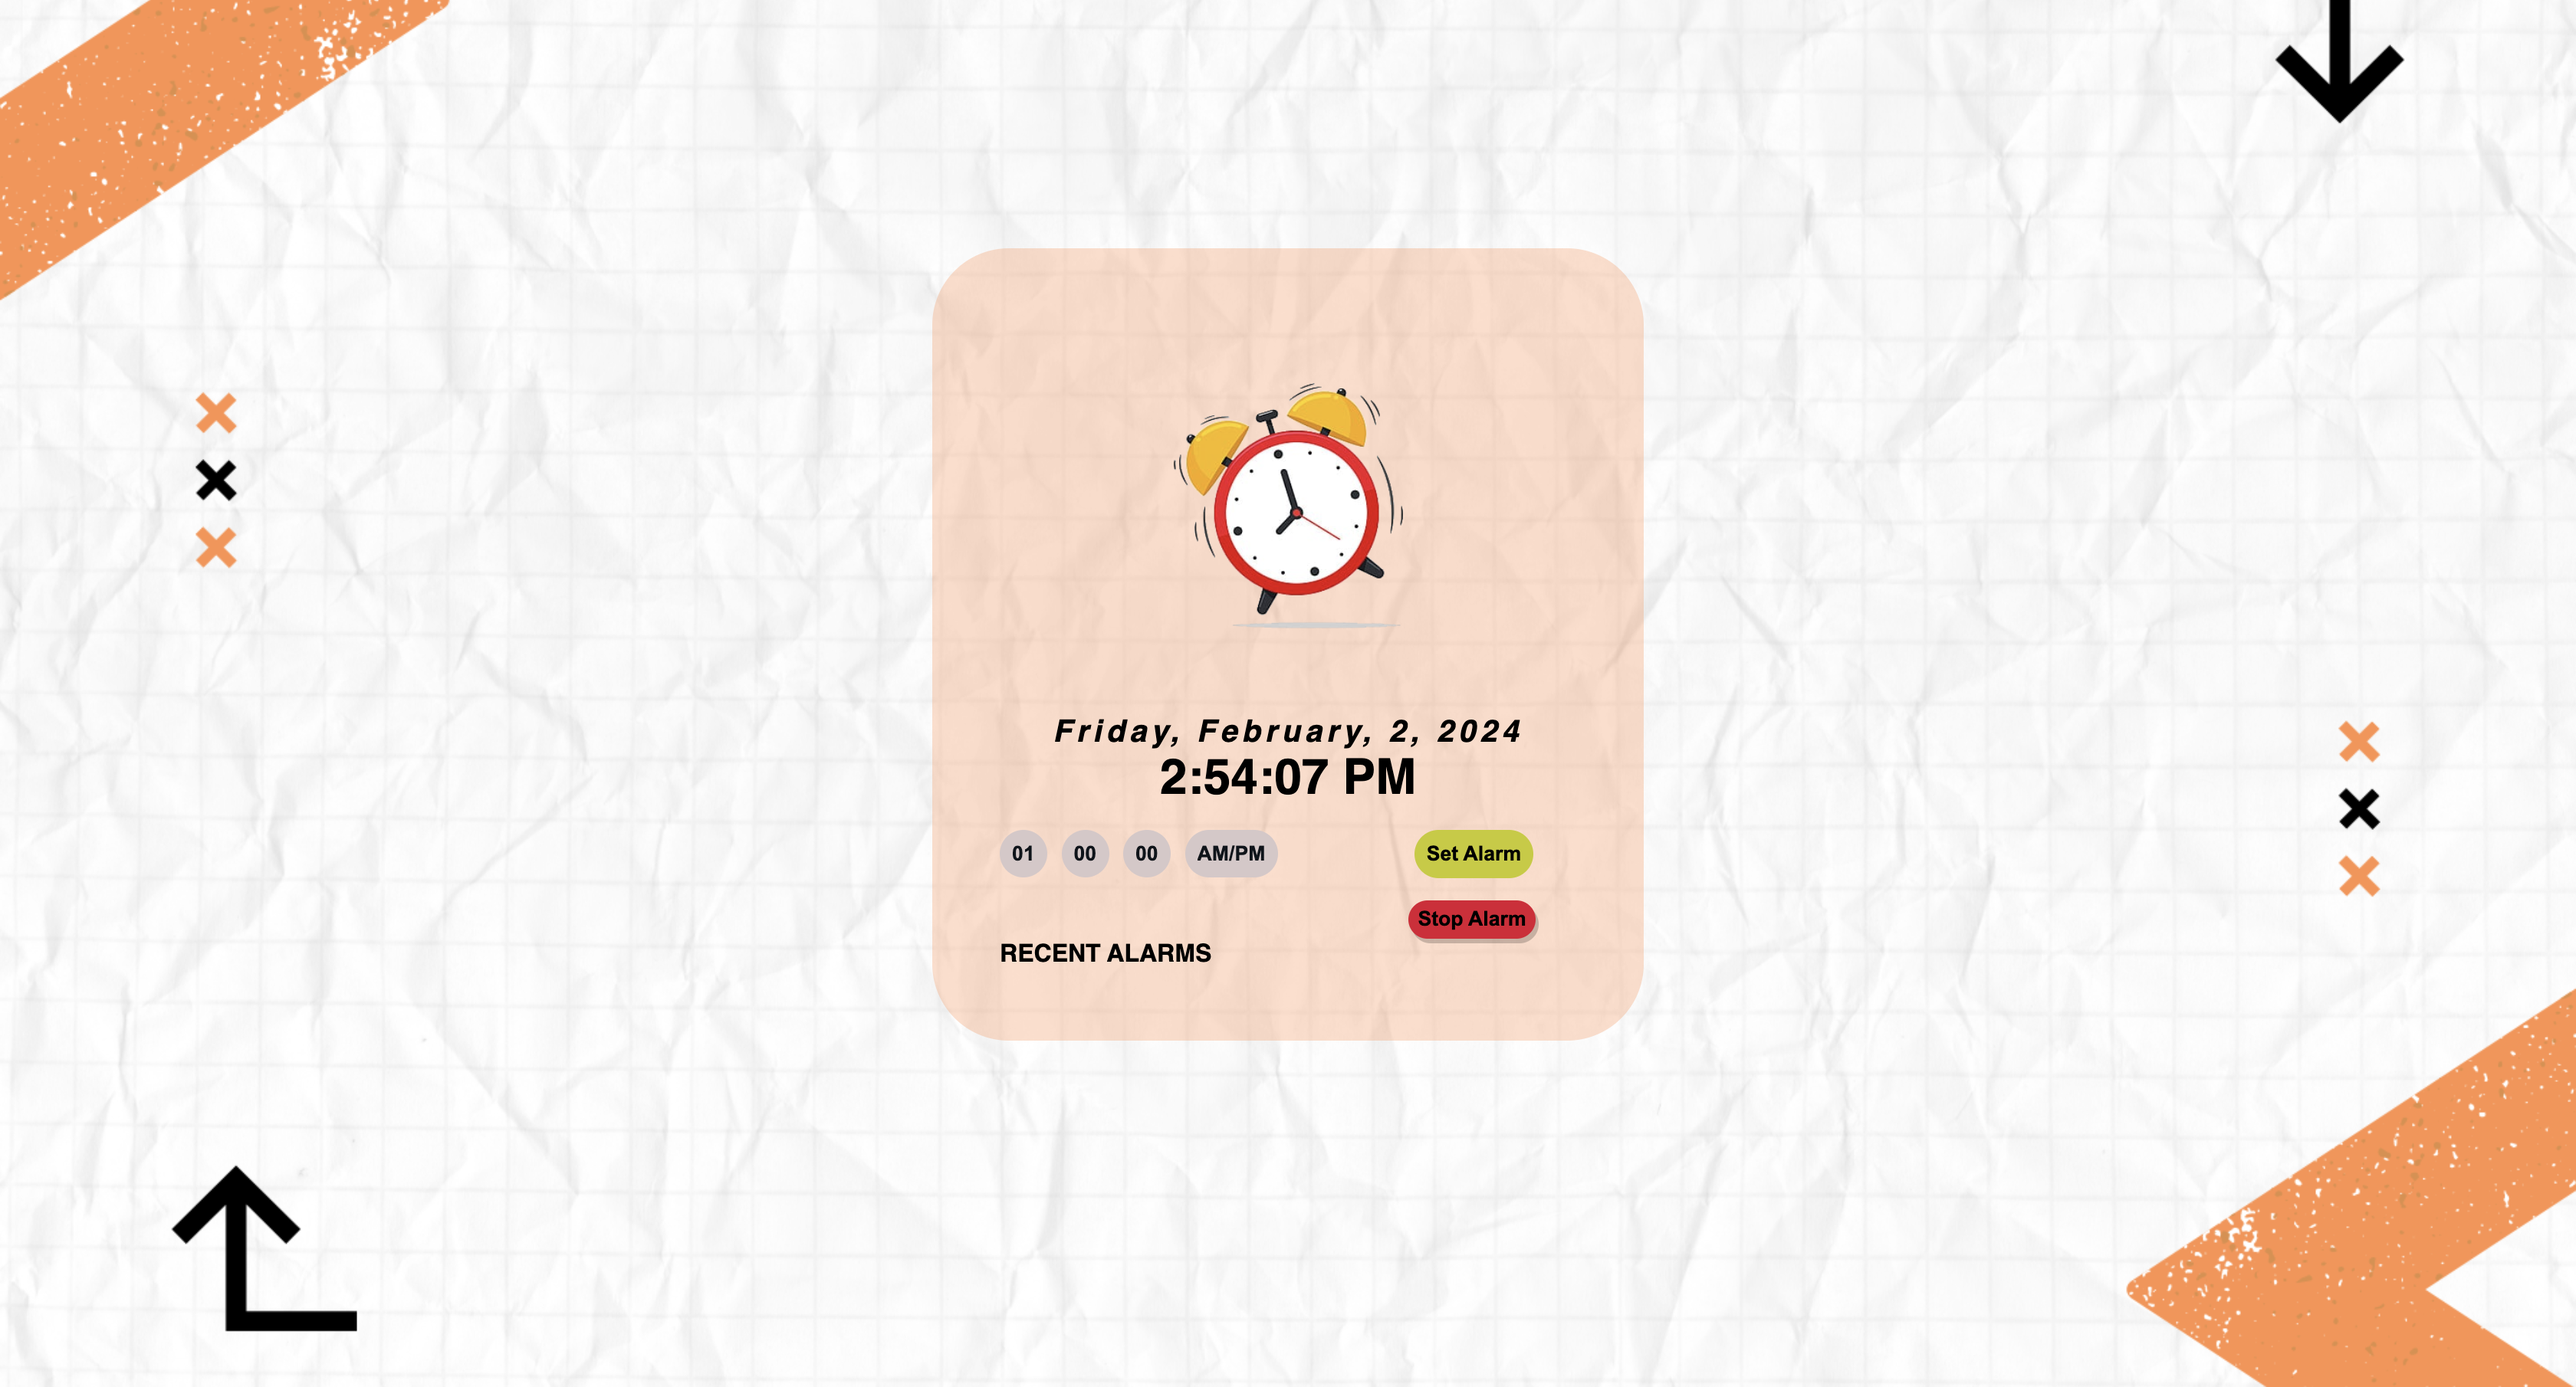
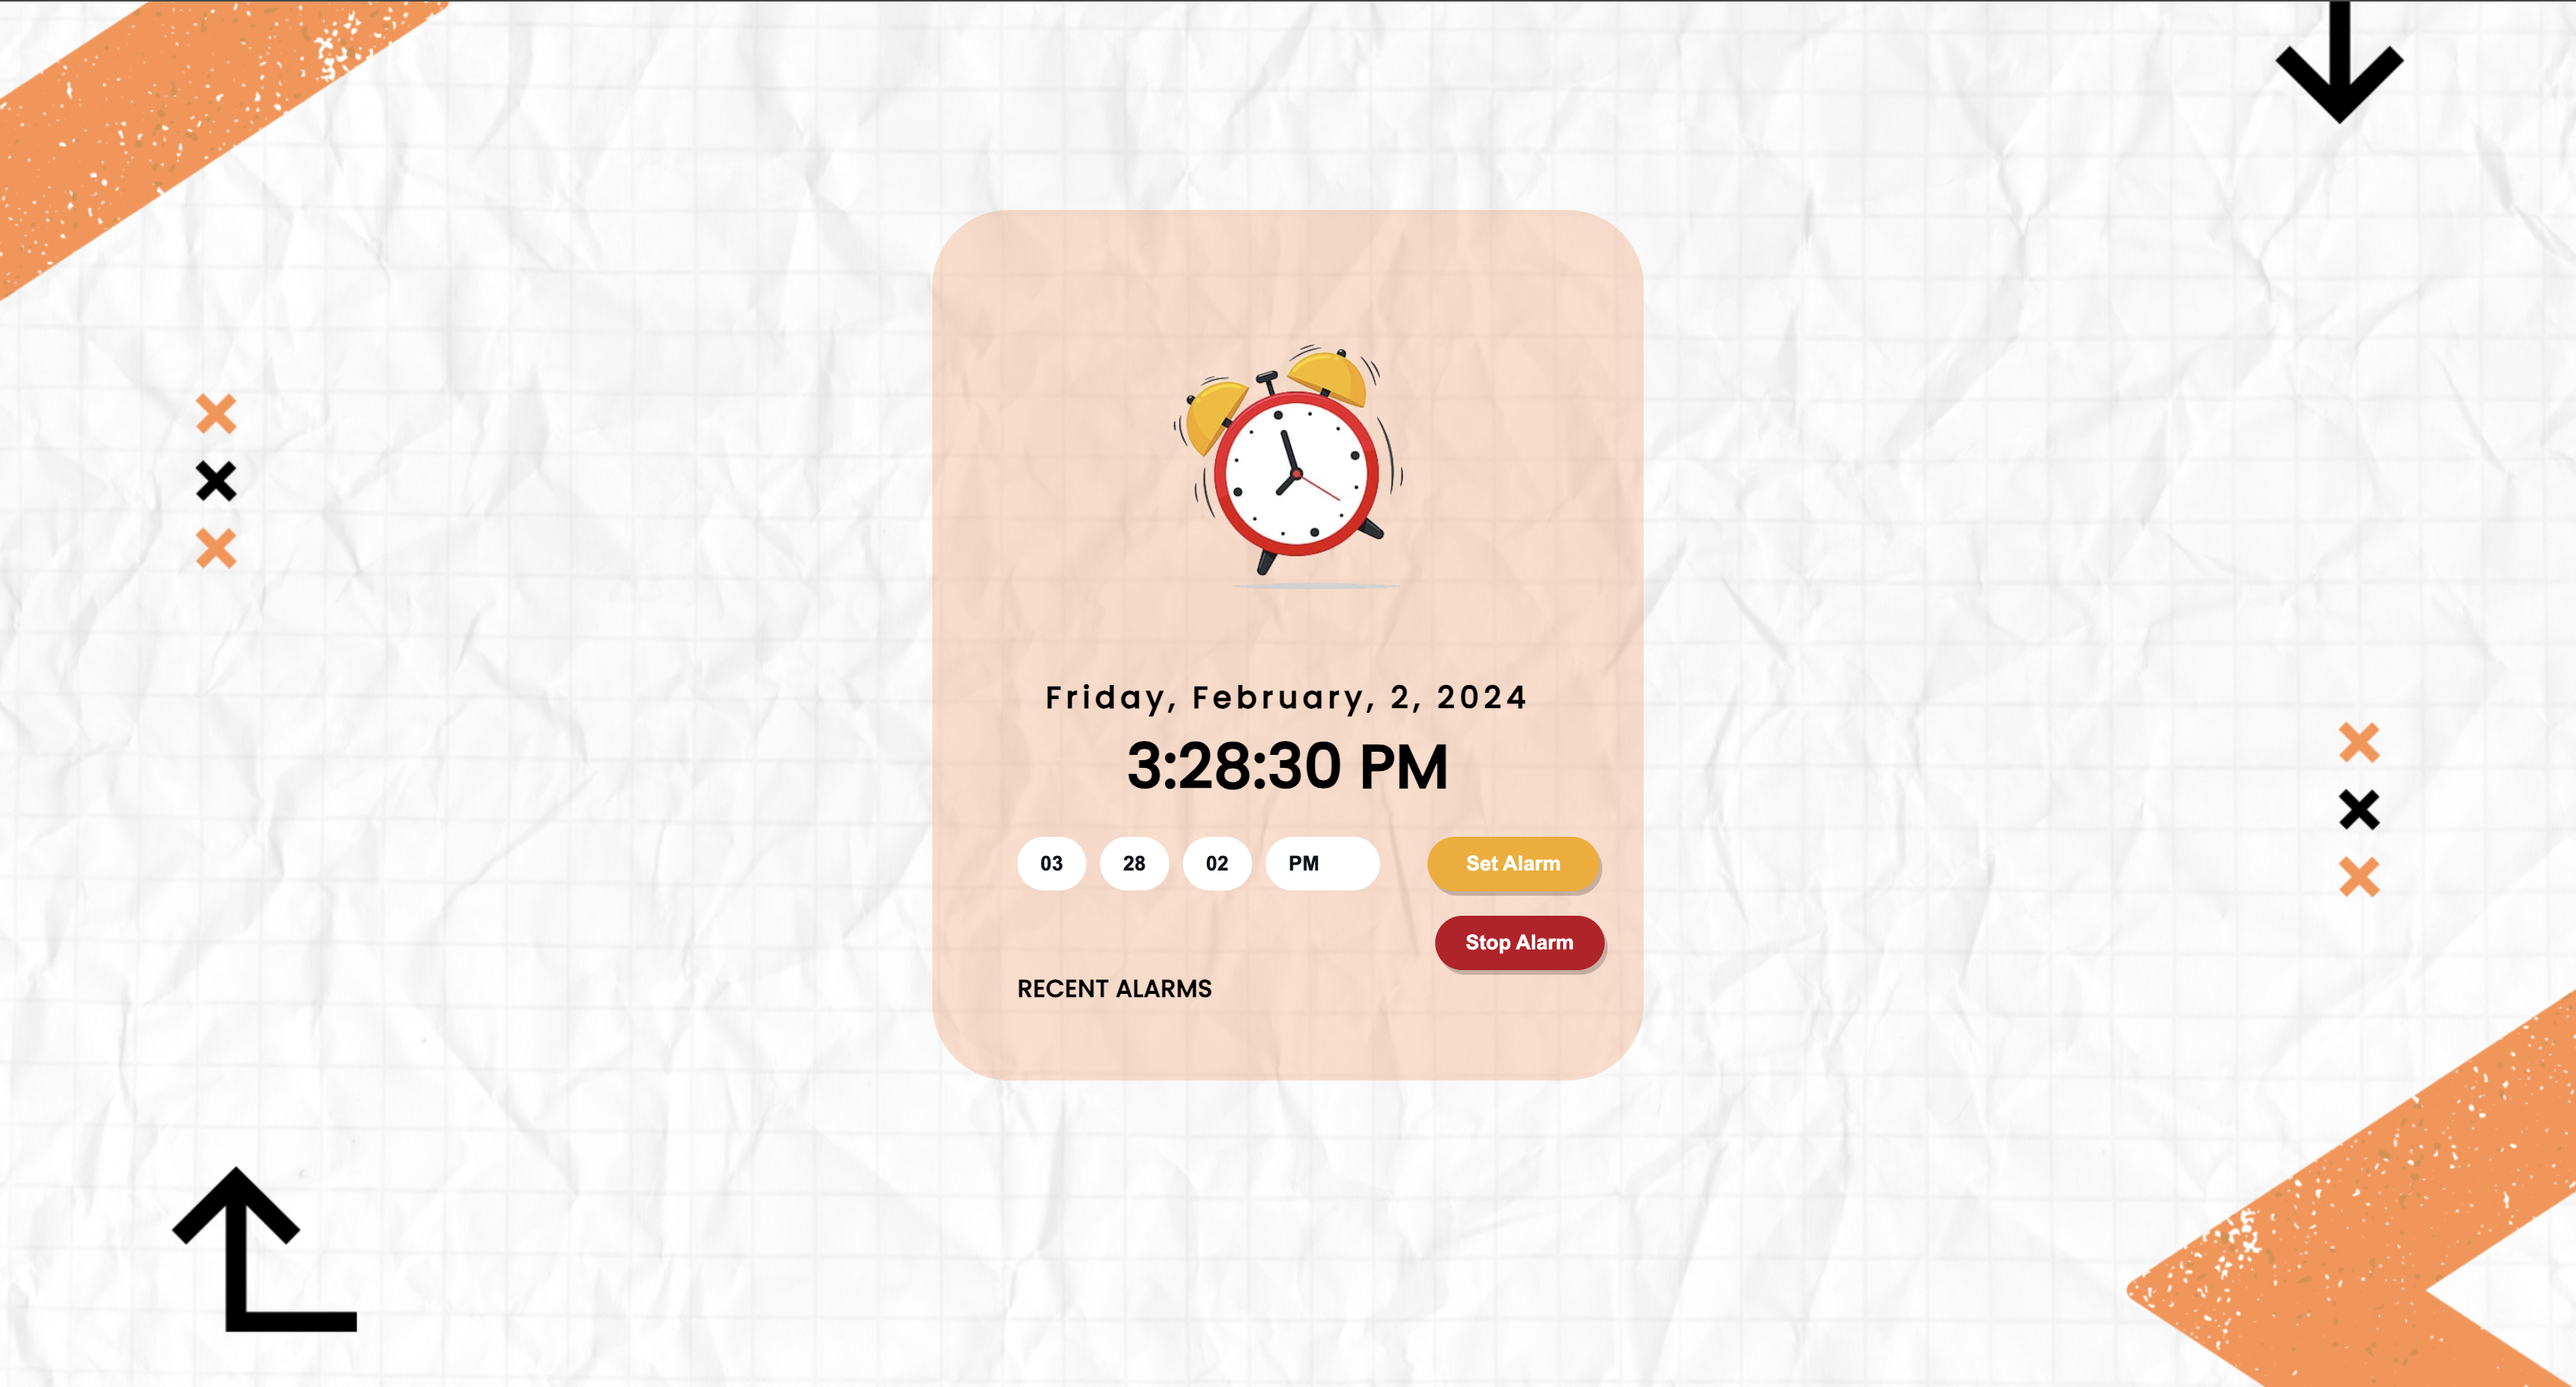
update

diff --git a/style.css b/style.css
@@ -1,5 +1,7 @@
 /*  GLobal Styles */
 body {margin:0;}
+font-family: 'Montserrat', sans-serif;
+font-family: 'Poppins', sans-serif;
 background-image: url(media/clock.png);
 * {
     margin: 0;
@@ -10,16 +12,9 @@ background-image: url(media/clock.png);
     align-items: center;
 }
 
-h1 {
-    color: rgb(212, 242, 213);
-    background-color: rgb(3, 37, 37);
-    font-style: oblique;
-    margin: 0;
-}
-
 body {
     min-height: 100vh;
-    font-family: sans-serif;
+    font-family: 'Poppins', sans-serif;
     display: block;
     max-height: none;
 
@@ -43,7 +38,6 @@ body {
 .logo {
     width: 30px;
     margin: auto;
-
     /* adjust the width as needed */
     height: auto;
 }
@@ -66,18 +60,20 @@ body {
 .btn {
     outline: none;
     border: none;
-    background-color: #c6ca1e;
+    background-color: #f6aa07;
+    color: #fff;
     cursor: pointer;
-    padding: 0.5rem;
+    padding: 10px 25px;
     border-radius: 1px;
     transition: all 0.3s ease-in-out;
+    box-shadow: 2px 3px rgba(0, 0, 0, 0.2);
 }
 
 select {
     appearance: none;
     outline: black;
-    background-color: #d6c8c8;
-    padding: 0.5rem;
+    background-color: ##fff;
+    padding: 10px 15px;
     font-weight: bold;
     border: none;
     border-radius: 2rem;
@@ -96,9 +92,9 @@ select {
 .date{
     font-size: 20px;
     font-weight: 600;
-    font-style: oblique;
     text-align: center;
     letter-spacing: 3px;
+    line-height: 30px;
 }
 
 .time{
@@ -149,7 +145,7 @@ select {
 }
 
 .current-time {
-    font-size: 2rem;
+    font-size: 2.5rem;
     font-weight: bold;
     color: black;
     text-align: center;
@@ -158,22 +154,22 @@ select {
 
 .alarm-form {
     justify-content: space-between;
-    
     width: 115%;
 
 }
 #stopAlarm{
-     border-color: black;
-     background-color: #dc1133;
+    background-color: #be0322;
+    color: #fff;
     border: 100px;
+    padding: 10px 20px;
     border-radius: 2rem;
     font-weight: bold;
-    height: 25px;
+    float: right;
+    height: auto;
+    width: auto;
     cursor: pointer;
     box-shadow: 2px 3px rgba(0, 0, 0, 0.2);
-    margin: -1em 2em 0 20em;
-        box-shadow: ##fd1402 2px 2px 2px 1px inset, #f4db03 -2px -2px 10px 1px inset;
-
+    margin-right: -30px;
 }
 
 .submit-button {
@@ -186,6 +182,7 @@ select {
 
 .set-alarm-container {
     width: 100%;
+    float: left;
 }
 
 .set-alarm-container .set-alarm-container-title {
@@ -204,11 +201,12 @@ select {
 
 .alarm .delete-alarm {
     border-radius: 2rem;
-    background-color: rgba(230, 13, 13, 0.918);
+    background-color: #be0322;
     font-weight: bold;
-    color: wheat;
+    color: #fff;
     font-size: xx-medium;
-
+    padding: 10px 30px;
+    margin-right: -40px;
 }
 
 .time {
@@ -219,15 +217,8 @@ select {
 
 .btn:focus,
 .btn:hover {
-    box-shadow: #f8f7fc 2px 2px 2px 1px inset, #0f0f0e -2px -2px 10px 1px inset;
-}
-
-.page-title {
-    background: linear-gradient(90deg, #00d2ff 0%, #3a47d5 100%);
-    align-items: center;
-justify-content: center;
-    text-align: center;
-    color: black;
+    /*box-shadow: #f8f7fc 2px 2px 2px 1px inset, #0f0f0e -2px -2px 10px 1px inset;*/
+    transition: all 0.3s ease-in-out;
 }
 
 

diff --git a/index.html b/index.html
@@ -13,6 +13,9 @@
 
     <!-- Stylesheet -->
     <link rel="stylesheet" href="style.css" />
+    <link rel="preconnect" href="https://fonts.googleapis.com">
+    <link rel="preconnect" href="https://fonts.gstatic.com" crossorigin>
+    <link href="https://fonts.googleapis.com/css2?family=Montserrat:ital,wght@0,100;0,200;0,300;0,400;0,500;0,600;0,700;0,800;0,900;1,100;1,200;1,300;1,400;1,500;1,600;1,700;1,800;1,900&family=Poppins:wght@100;200;300;500&display=swap" rel="stylesheet">
 </head>
 
 <body>
